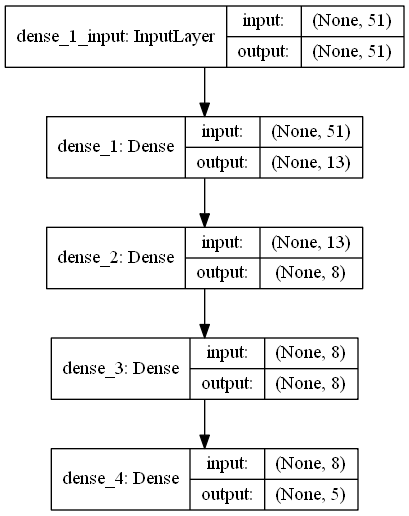
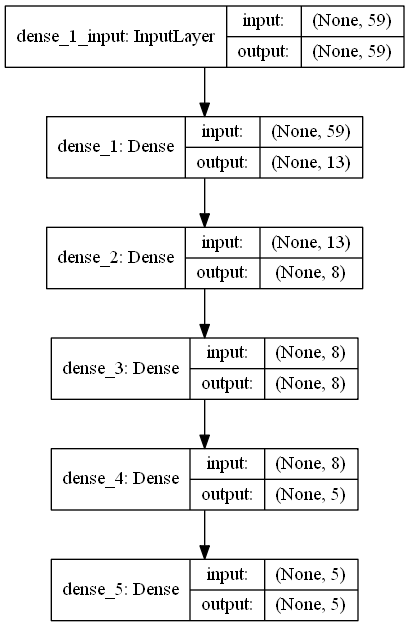
more than 86%

Changed region(s): [[0.0, 0.0, 0.9976, 0.9922], [0.088, 0.3721, 0.1174, 0.4341], [0.088, 0.186, 0.1174, 0.2171]]

diff --git a/CardiologicClinic_WebApp/AI/main.py b/CardiologicClinic_WebApp/AI/main.py
@@ -39,9 +39,9 @@ def DrawPlots(history):
 
 def Training():
 #read data
-    #data = pd.read_csv("./danecsvintH.csv", sep=";")
+    #data = pd.read_csv("danecsvintH.csv", sep=";")
     my_data = genfromtxt('danecsvintH.csv', delimiter=';')
-    test = feat_select.SelectKBest(score_func=feat_select.chi2, k=51)
+    test = feat_select.SelectKBest(score_func=feat_select.chi2, k='all')
     X = my_data[1:, 0:59].astype('int')
     Y = my_data[1:, 59].astype('int')
     data = test.fit_transform(X, Y)
@@ -69,18 +69,16 @@ def Training():
     model.add(Dense(13, input_dim=len(X_train[0]), activation='relu'))
     model.add(Dense(8, activation='relu'))
     model.add(Dense(8, activation='relu'))
+    model.add(Dense(5, activation='relu'))
     model.add(Dense(5, activation='softmax'))
 
 #optymalizer settings, in this examlpe we changed default learning rate
-    adam = optimizers.Adam(lr=0.002)
+    adam = optimizers.Adam(lr=0.0022)
 
 #configurate model and picking optymalizer, loss function and metrics.
     model.compile(loss='sparse_categorical_crossentropy', optimizer=adam, metrics=['accuracy'])
 
-# batch_size is number of samples per gradient update
-# epoch is an iteration over the entire data provided
-#fit - train data
-    history = model.fit(X_train, Y_train, epochs=200, batch_size=10, validation_data=(X_test, Y_test))
+    history = model.fit(X_train, Y_train, epochs=300, batch_size=12, validation_data=(X_test, Y_test))
 
 # evaluate the model
 # acc = number of correct pred / total num of pred
